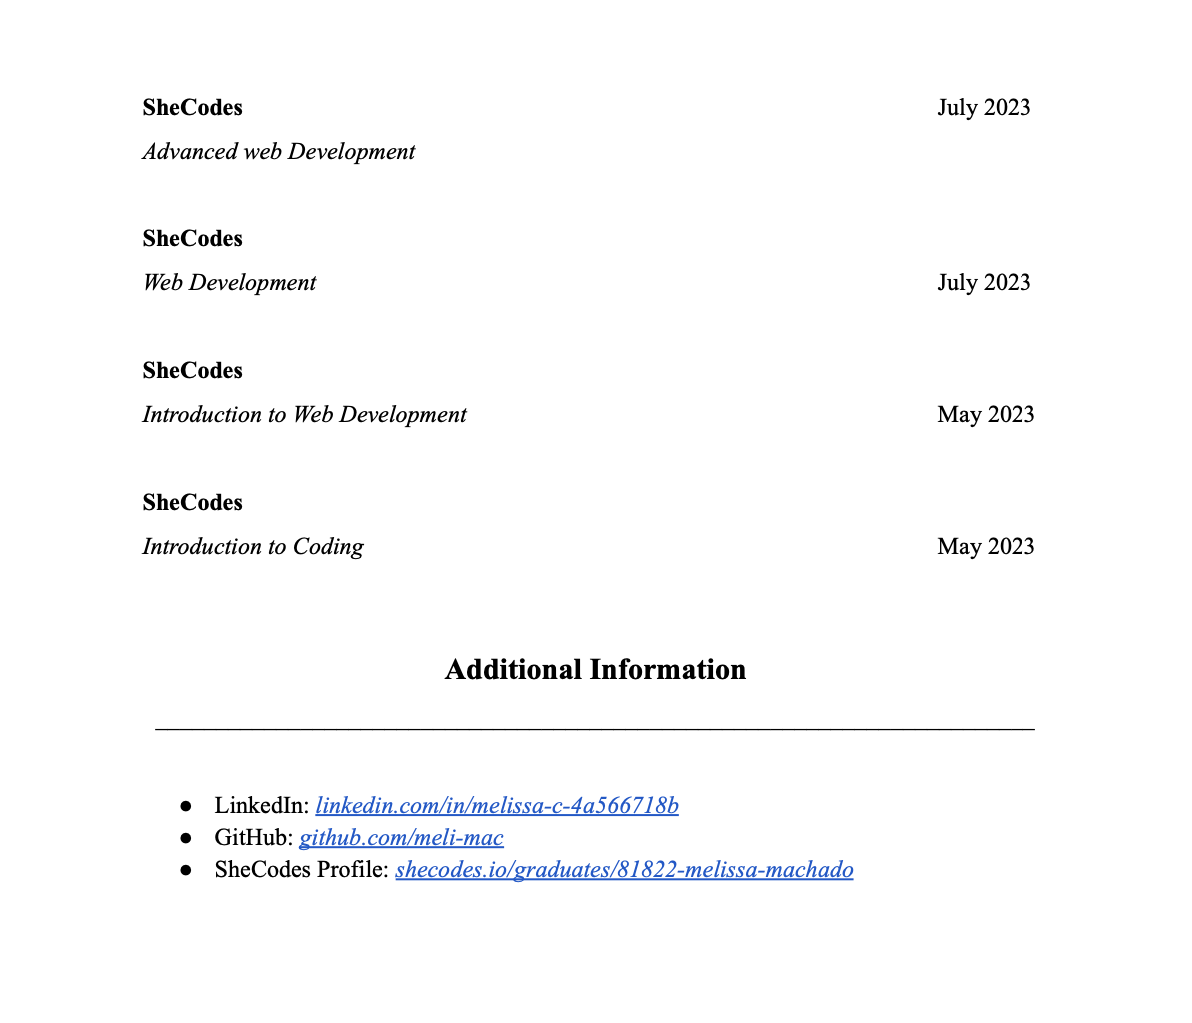
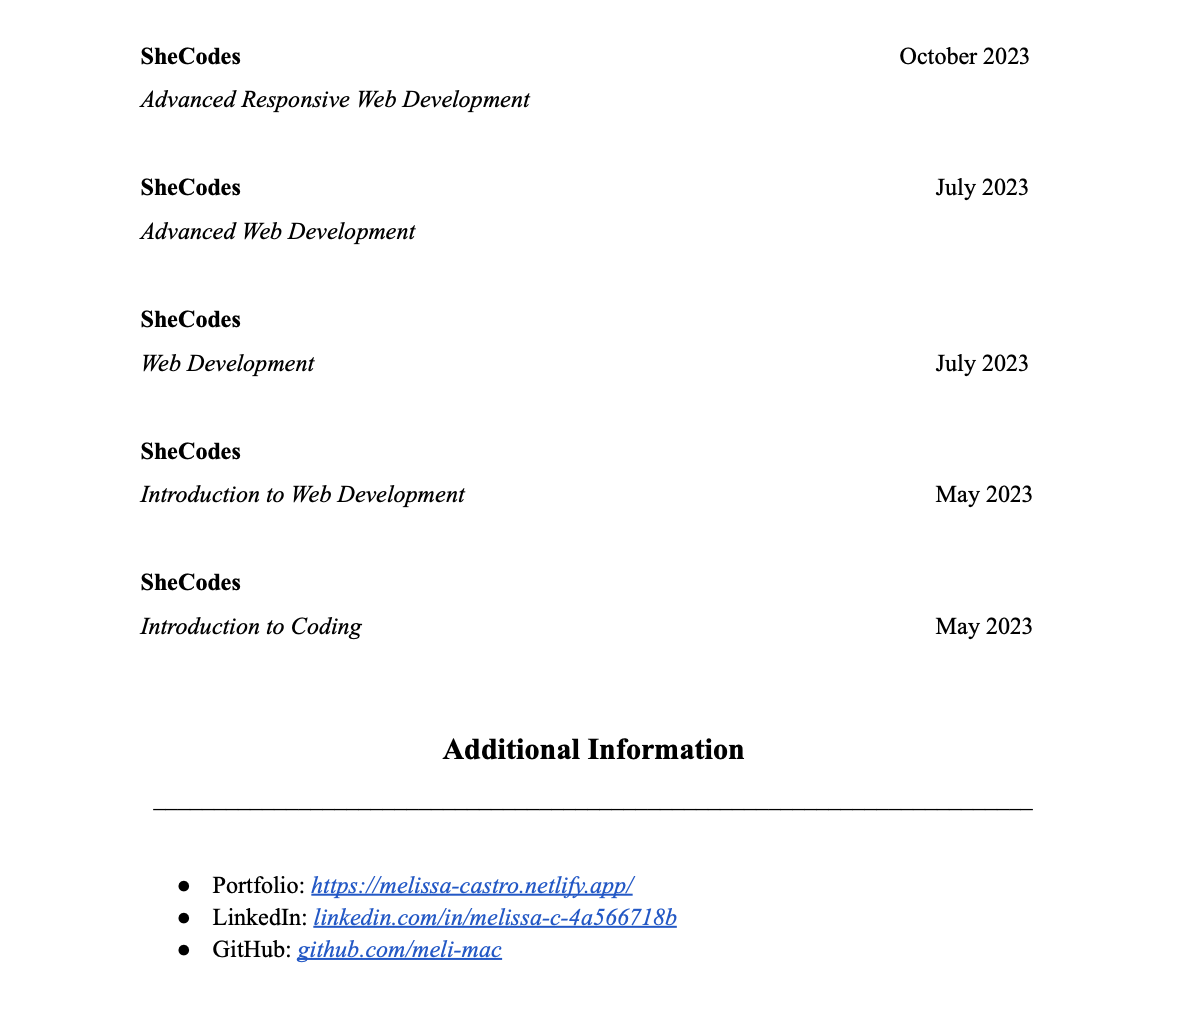
Updated Resume and Certifications
- Added certificate to index.html
- Updated resume

diff --git a/index.html b/index.html
@@ -113,14 +113,19 @@
     <h2 class="text-center mt-5 mb-5 certificate-heading">Certificates</h2>
     <div class="container">
       <div class="row">
-        <div class="col">
-          <div class="col-md-6 mb-4">
-            <img
-              src="images/SheCodes Responsive.png"
-              class="img-fluid img-thumbnail"
-              alt="SheCodes Responsive Certificate"
-            />
-          </div>
+        <div class="col-md-6 mb-4">
+          <img
+            src="images/SheCodes Responsive.png"
+            class="img-fluid img-thumbnail"
+            alt="SheCodes Responsive Certificate"
+          />
+        </div>
+        <div class="col-md-6 mb-4">
+          <img
+            src="images/SheCodes Responsive Add-On.png"
+            class="img-fluid img-thumbnail"
+            alt="SheCodes Responsive Add-On Certificate"
+          />
         </div>
       </div>
     </div>
